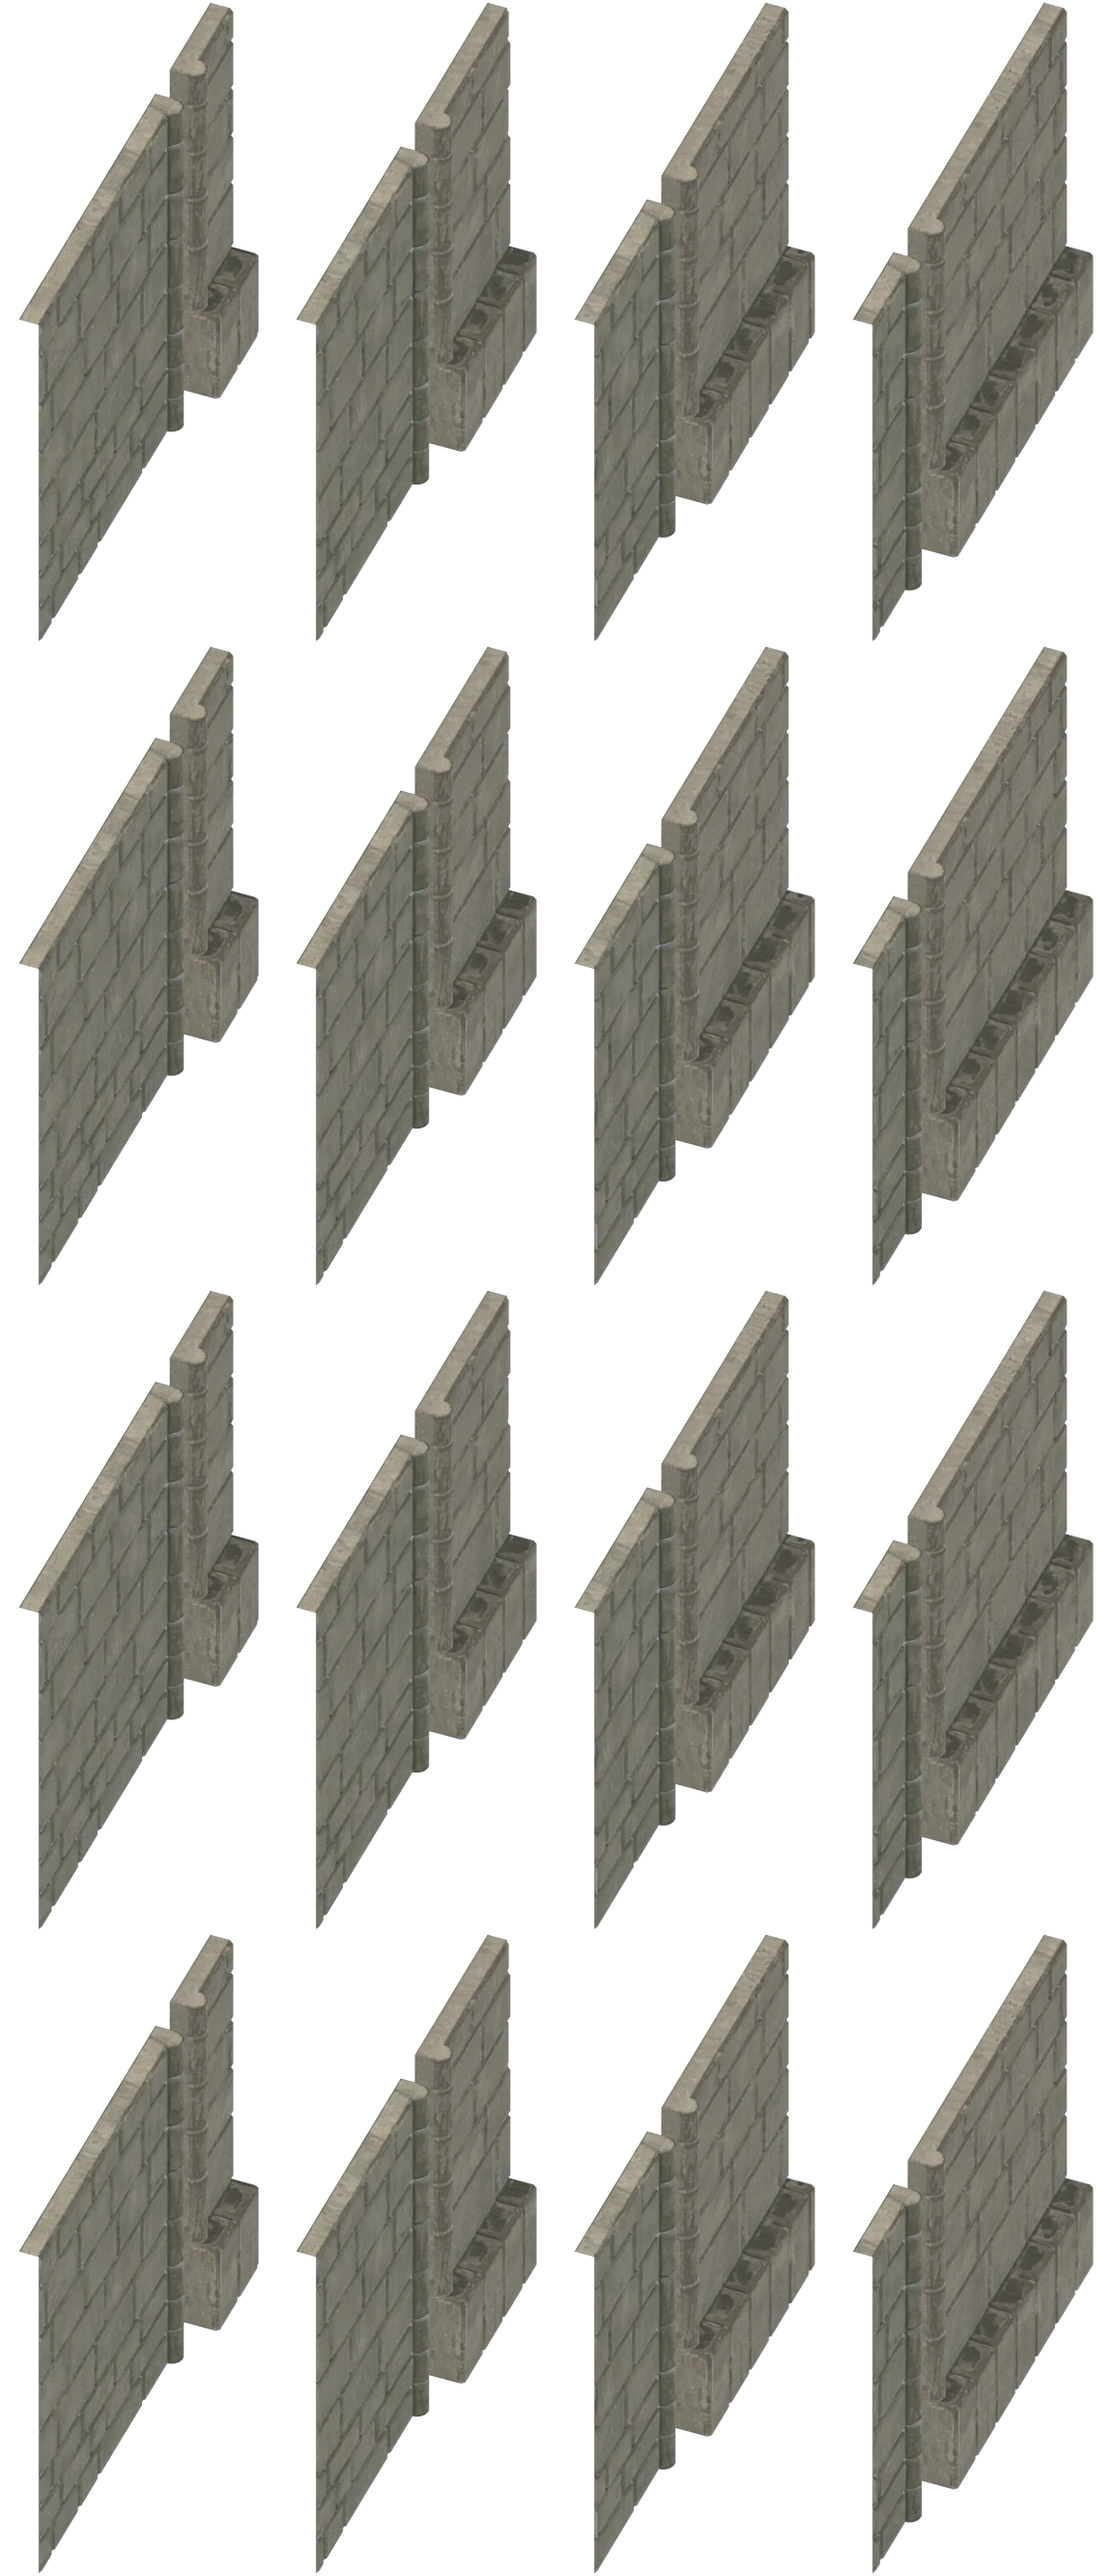
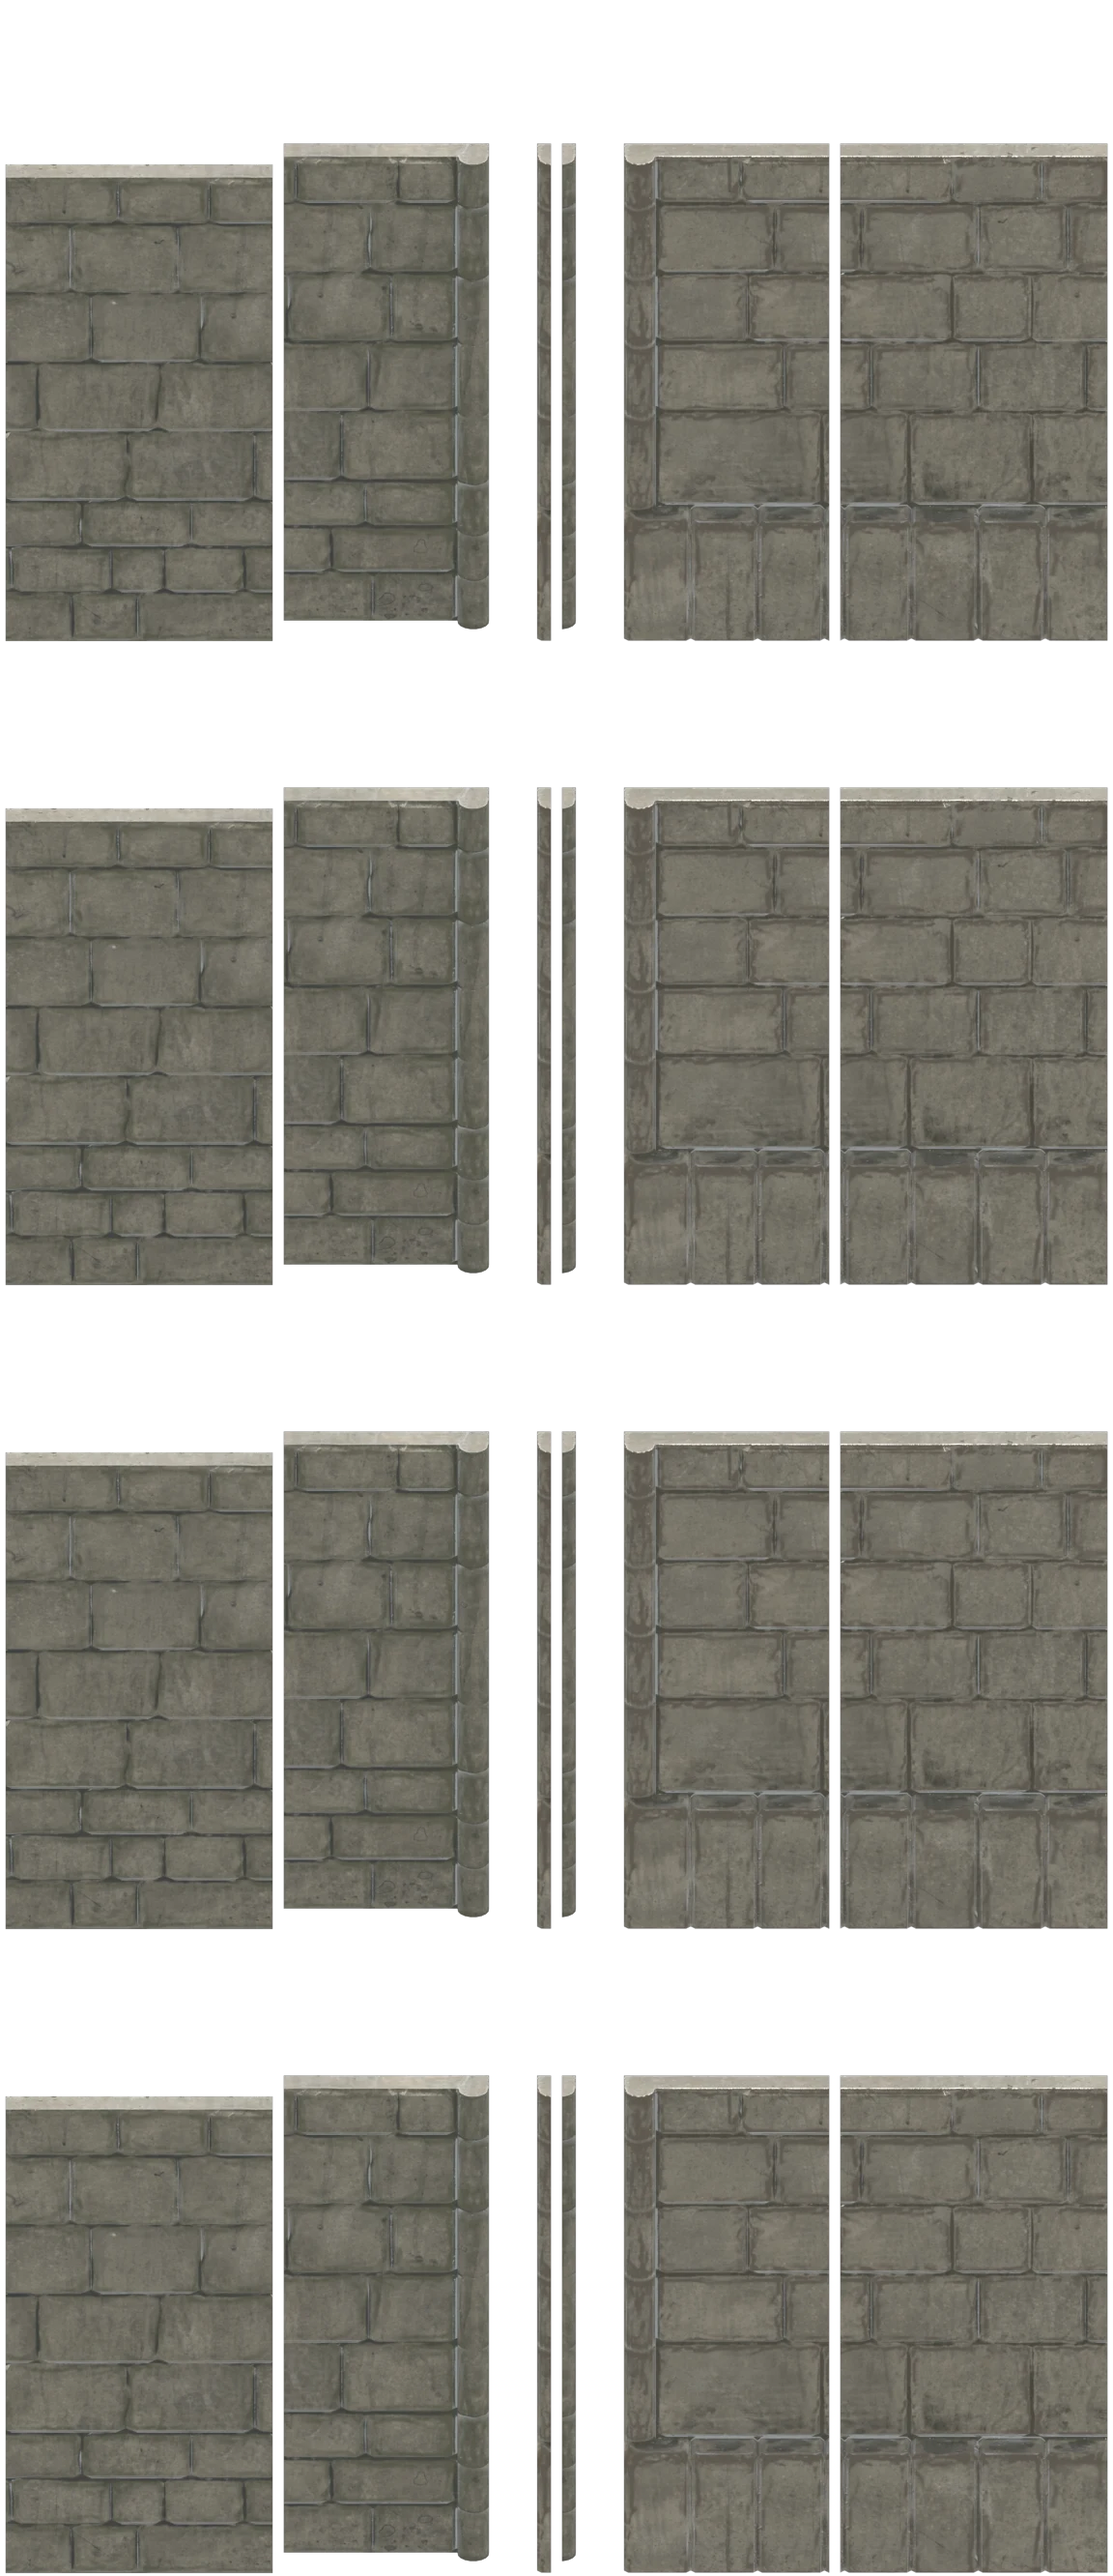
render: single plain row per tier, front-on wall sprites (TB-227)

diff --git a/src/data/presentation.ts b/src/data/presentation.ts
@@ -106,7 +106,7 @@ export const GROUND = {
    *  darker back rows show through; the whole wall clips to its healthy outline. Only inner rows jitter.
    *  Where `mirror[tier]` is set every other panel is flipped so bindings alternate sides (off for the TB-227 stone and palisade art, where flipping turns the courses into chevrons); `rowSeed` offsets each row's fixed golden-ratio break scatter (`breakScatter`). */
   wallTiers: {
-    at: [1.9, 3.7, 7], perPerk: 0.5, rows: [1, 2, 2, 2], scale: [1, 1, 1.25, 1.6],
+    at: [1.9, 3.7, 7], perPerk: 0.5, rows: [1, 1, 1, 1], scale: [1, 1.3, 1.7, 2.2],
     /** TB-227: the atlas drawn at each tier (weak palisade, medium stone, strong castle with mithril veins) and whether that tier flips every other panel (stone courses must not herringbone). */
     atlas: ['fence_weak', 'fence_medium', 'fence_medium', 'fence_strong'], mirror: [false, false, false, false], calm: [1, 1, 1, 0.2],
     rowDx: -11, rowDy: [0, 0.5, 0.25], rowShade: 0.18, backMax: 18, shadowDx: -8, shadowW: 0.7, brokenAlpha: 0.9, brokenDx: 4, brokenDy: 5, brokenTilt: 0.14, brokenShade: 0.25, brokenSnap: 0.25, zig: 5, brokenGap: 3, jitter: 3, rowSeed: 7, breakScatter: 0.618034,

diff --git a/docs/ART-STYLE.md b/docs/ART-STYLE.md
@@ -84,7 +84,7 @@ The plain reads as natural, calm grassland, not a flat board. Layout is seeded (
 - All fonts ship with the game as woff2 in `src/ui/fonts/`, declared in `src/ui/style.css`; no web font service (TB-118). Heartwood is original to the game; Spectral and Atkinson were removed in TB-137. A new weight or style needs its file added there.
 - Tabular numerals everywhere numbers change.
 - Readability (TB-138, TB-191): body 1rem = 1/54 of window height (20 px at 1920×1080, 40 px at 3840×2160 DPR 1, 20 CSS px = 40 device px at DPR 2; never under 16 px), so it reads from a couch on a TV. Floor: no text under 0.875rem (1.62% of screen height) on PC; only the ≤540 px phone layout goes smaller. Canvas: tree labels 14 layout px × `uiScale()`; field HUD 13 and damage numbers 15 field units (≈2.7% / 3.1% of screen height) × `textScale()`. Settings › Text size (80–160%) multiplies all of it; text is warm parchment `--text` / `P.text` (#ecdcb4), secondary `--text-dim` / `P.textDim`, every DOM text has a dark ink halo (`text-shadow`), canvas labels a 4 px ink shadow and +3 px.
-- Barricade tiers (TB-209): three per-tier atlases (`fence_weak` palisade, `fence_medium` stone for tiers 1 and 2, `fence_strong` castle wall with mithril veins; 4 panel variants each; stone tiers are never mirrored, `GROUND.wallTiers.mirror`; the strong tier is calm: `calm` 0.2 scales its jitter) is stacked with a jittered pitch and random variants; back rows are shaded toward ink, and the wall gains rows and a larger scale as its max health passes the `GROUND.wallTiers` thresholds (1.9x, 3.7x, 7x base): one row, two rows, two rows larger, two rows largest. A wall with repair or bulwark perks is lit green. Broken panels lean, snap and drop out. No code-drawn parts.
+- Barricade tiers (TB-209): three per-tier atlases (`fence_weak` palisade, `fence_medium` stone for tiers 1 and 2, `fence_strong` castle wall with mithril veins; 4 panel variants each; stone tiers are never mirrored, `GROUND.wallTiers.mirror`; the strong tier is calm: `calm` 0.2 scales its jitter) is stacked with a jittered pitch and random variants; back rows are shaded toward ink, and the wall gains rows and a larger scale as its max health passes the `GROUND.wallTiers` thresholds (1.9x, 3.7x, 7x base): one plain row per tier, growing in scale (1, 1.3, 1.7, 2.2). A wall with repair or bulwark perks is lit green. Broken panels lean, snap and drop out. No code-drawn parts.
 - Run layout (TB-138): the 15:8 field fills the window (fit, letterboxed), frame 16 px; header stats float over the field. The far hills run across grove, barricade and plain, drawn over the fence.
 
 **Between-runs panel (TB-195p).** The display face is for headings of 24px and up only; every label, value and button under that uses `--body` (system UI stack), sentence case, at least 16px. One button system: primary = gold plank (`.buy`, `#camp-go`, ink text, >=44px tall, no glow); secondary = wood plank (`.ghost`); destructive = wood with a rose edge and rose text (`.ghost.danger`), set 2rem apart. Selected states use a thicker edge in the item's own colour plus an inner glow, never bloom.

diff --git a/docs/log/2026-11-04.md b/docs/log/2026-11-04.md
@@ -9,4 +9,4 @@
 - Open: tiers read as one wall getting wider; stacked panels read as a braid; 130 px tiling; tier3_damaged gaps unreadable; perk pennants too saturated; tier1_perks capture is tier 0 by HUD; canopy join hard; candidates board crops.
 
 ## TB-227 wall tiers
-Three Sketchfab walls rendered per tier; per-tier atlas and no-mirror in field.ts (`panelMirrored`, `calm`). Branch based on tb-209 (unmerged). Critic round 3 FAIL on all tiers (diagonal banding from render angle, tier1/2 too alike, damage unreadable). Open.
+Three Sketchfab walls rendered per tier; per-tier atlas and no-mirror in field.ts (`panelMirrored`, `calm`). Branch based on tb-209 (unmerged). Round 4: single row per tier (director), front-on renders, widths 65/77/89/103 px. Critics pending.
